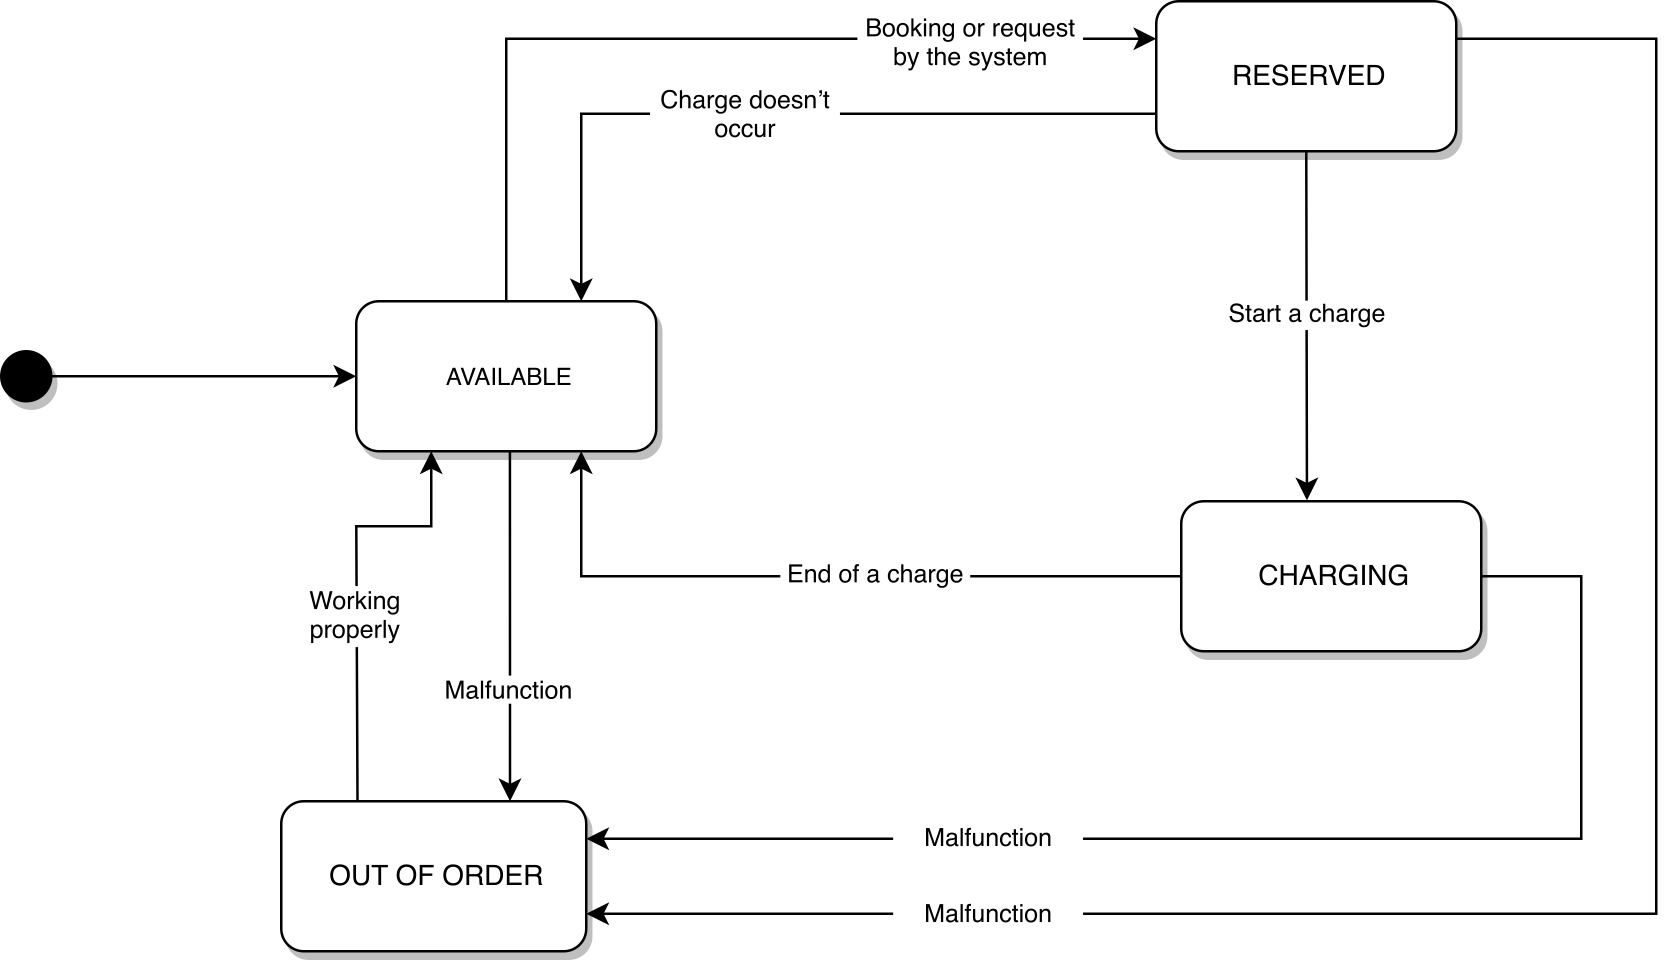
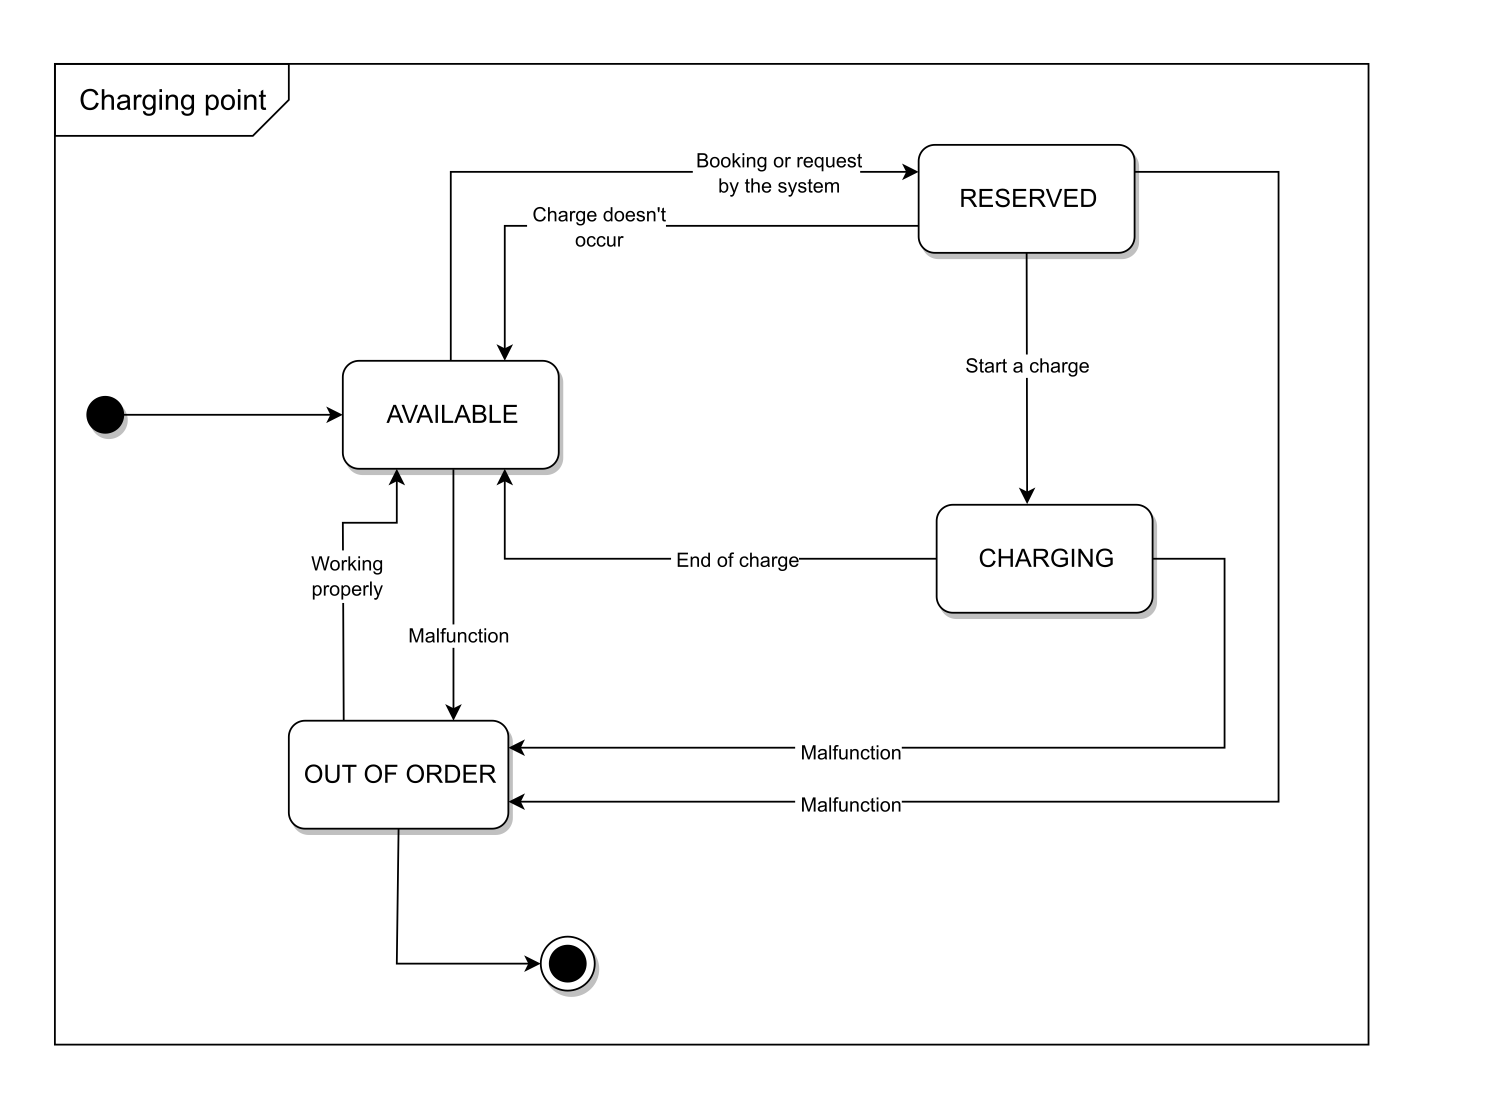
state diagrams fix and descriptions

diff --git a/RASD/section/overall_description.tex b/RASD/section/overall_description.tex
@@ -20,15 +20,28 @@ details, those will be detailed during the design phase.
 In the paragraphs below, a representation of the behavior of the main conceptual
 components of the system. The focus is on how these components respond to
 external influences and modify accordingly their states. For this purpose,
-some UML State Charts are proposed:
+some UML State Charts are proposed:"
+The following state diagram represents the possible status of a charging point. 
+When is added to the system it results "available" until a the system requests to pass in "reserved" mode. 
+When it is in "reserved" status, only the user with the matching reservation can start a charge through the eMall APP. 
+When the user starts a charge the system communicates the charging point to change status in "charging". In this status
+the charging point performs the charge as expected and when the charge is ended, the system notify to modify the status 
+in "available" back again. From all of these status it is possible that for some sort of malfunction or manual intervention
+by the operators through the system forces the charging point to change the status in "out of order". The charging point will return "available"
+only when the operators decides to. 
 
 \begin{figure}[H]
       \centering
-      \includegraphics[scale=0.2]{src/state_diagram/cp.png}
+      \includegraphics[scale=0.25]{src/state_diagram/cp.png}
 \end{figure} \vspace{1cm}
+
+The following diagram describes the possible status for a reservation. 
+When a reservation is created through the APP it is in "not started" state. In the exact moment in which the time of the reservation starts
+then it passes in the "pending" status. Will remain in pending status until the charge is started or until the time for the reservation runs out.
+When the charge is started it is in "running" mode and when finishes is "completed" and archived in the list of past transaction.
 \begin{figure}[H]
       \centering
-      \includegraphics[scale=0.2]{src/state_diagram/transaction.png}
+      \includegraphics[scale=0.25]{src/state_diagram/transaction.png}
 \end{figure} \vspace{1cm}
 
 \subsubsection{Scenarios}
